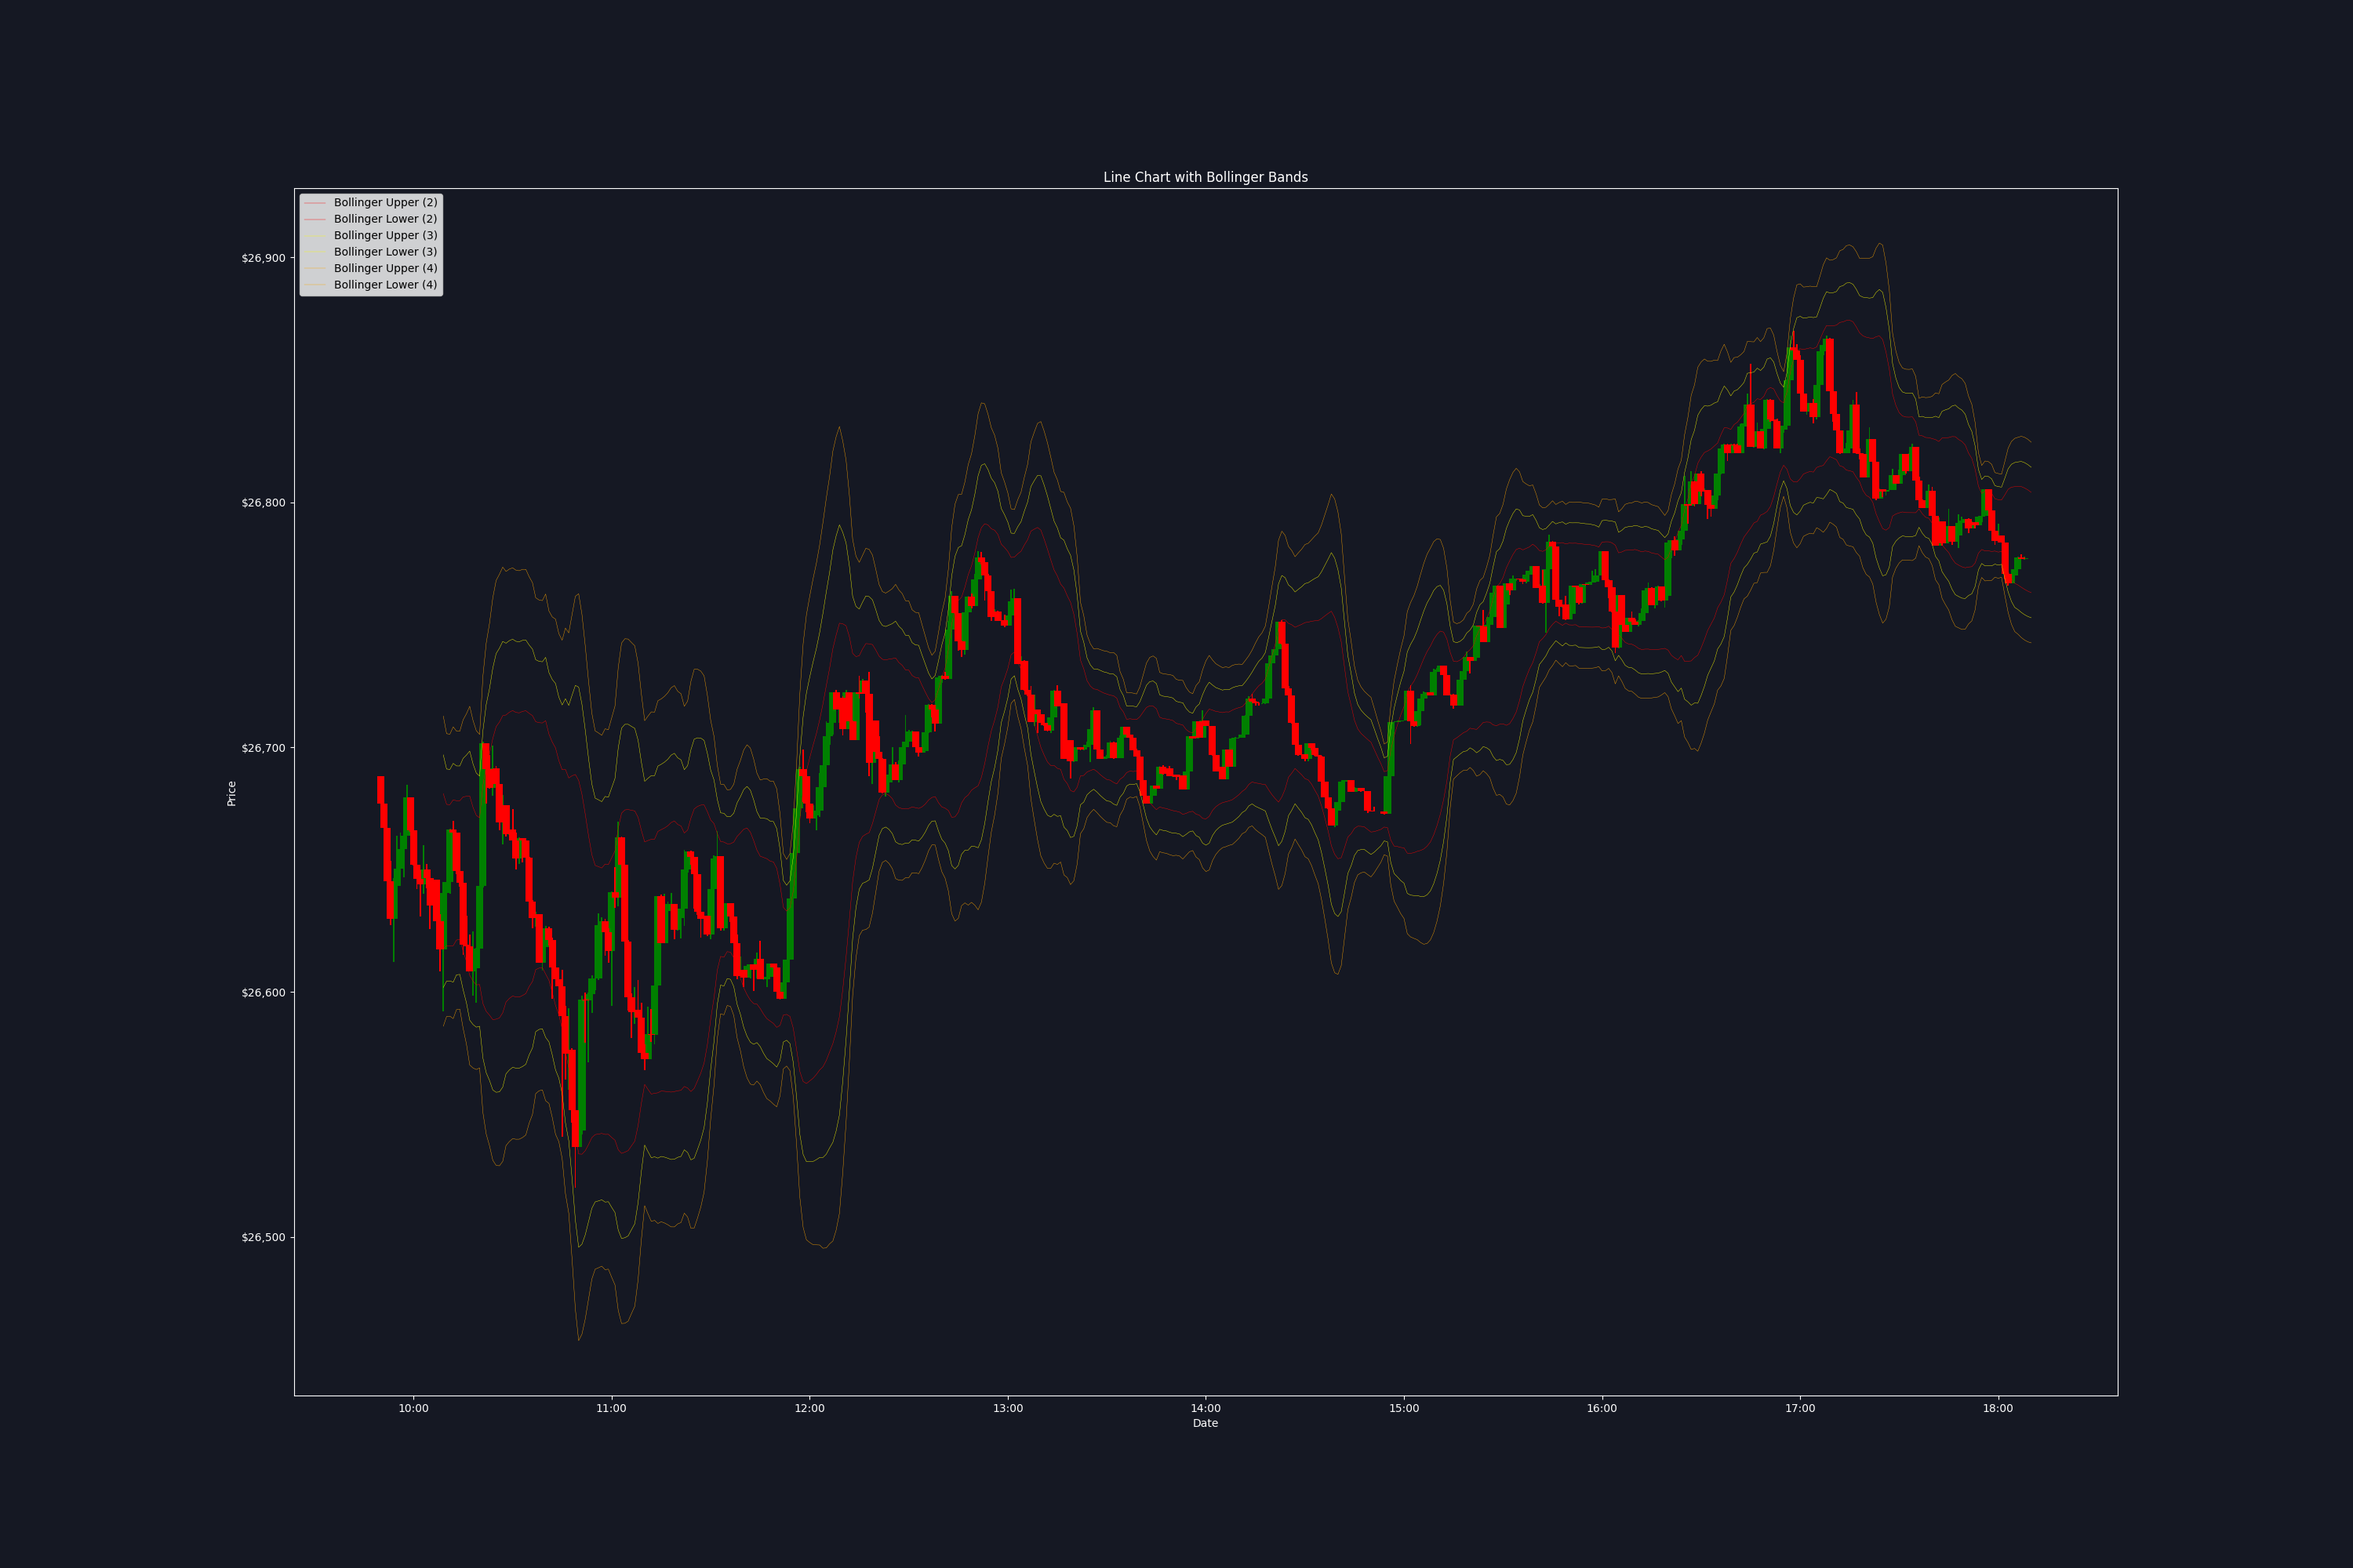
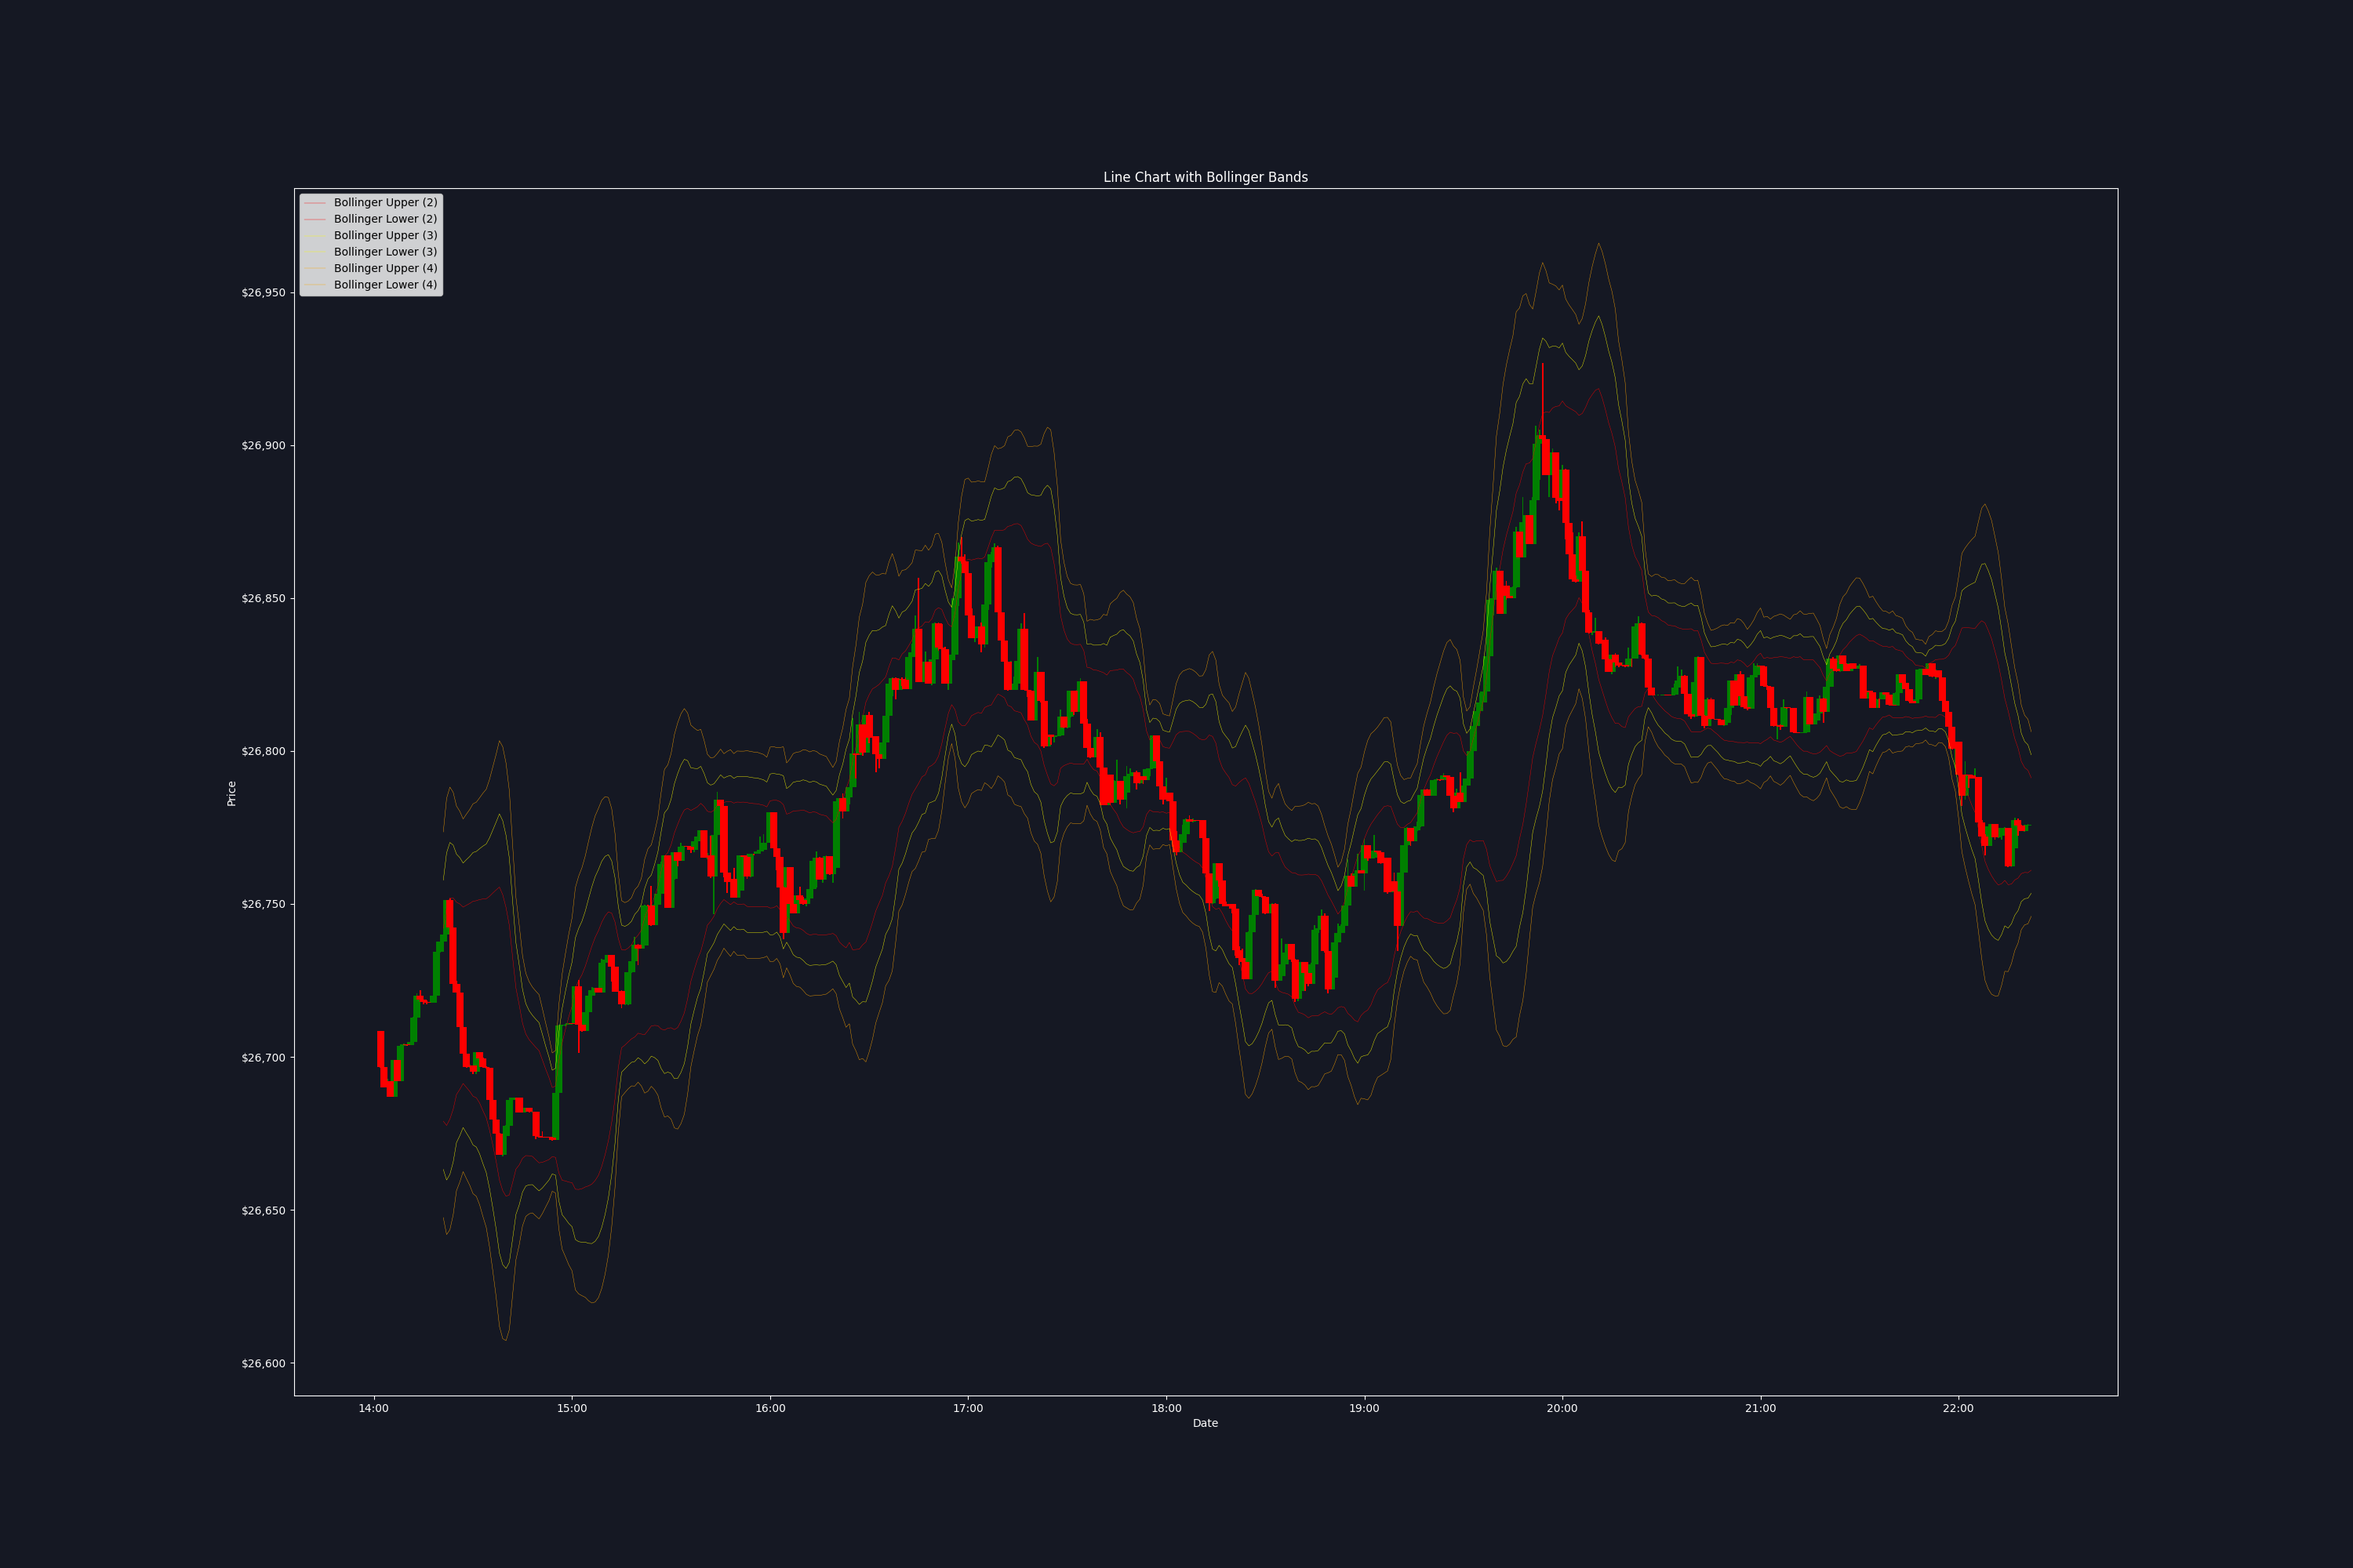
main_test; subplots; gridspec; rsi and stoch live

Changed region(s): [[0.155, 0.279, 0.837, 0.744], [0.713, 0.217, 0.868, 0.372], [0.837, 0.496, 0.868, 0.558]]

diff --git a/plot.py b/plot.py
@@ -1,12 +1,12 @@
 import matplotlib.pyplot as plt
 import pandas as pd
-from matplotlib.dates import date2num, DateFormatter
 from matplotlib.ticker import FuncFormatter
-from datetime import datetime, timedelta
 import os
-from bitget.bitget import BitGet
-import asyncio
+
 from bot.utils import calc_bollinger_bands, calc_RSI, calc_stochastic
+from matplotlib import style
+from matplotlib.dates import DateFormatter
+from matplotlib.gridspec import GridSpec
 
 
 def format_to_dollars(x, pos):
@@ -64,27 +64,30 @@ def plot_candlestick_with_bollinger(df, save_path=None):
     df["Date"] = df.index
     df.sort_values(by="Date", inplace=True)
 
-    # Convert Unix timestamp to datetime and assign to a new column
-    # df["Date"] = df["Date"].dt.tz_localize("UTC").dt.tz_convert("America/Los_Angeles")
-
     df["Date"] = (
         pd.to_datetime(df["Date"], unit="s")
         .dt.tz_localize("UTC")
         .dt.tz_convert("America/Los_Angeles")
     )
-    print("First timestamp:", df["Date"].iloc[0])
-    print("Last timestamp:", df["Date"].iloc[-1])
-
-    # Sort DataFrame by datetime
+    # print("First timestamp:", df["Date"].iloc[0])
+    # print("Last timestamp:", df["Date"].iloc[-1])
 
     # Setup the plot
-    fig, ax = plt.subplots()
+    # fig, ax = plt.subplots()
+    fig, (ax, ax_indicator) = plt.subplots(2, sharex=True, figsize=(30, 20))
 
-    # Candles
+    style.use("dark_background")
+    # Create grid layout
+    gs = GridSpec(3, 1)  # 3 rows, 1 column
 
-    # Setting width of candlestick elements
+    # Allocate grid space
+    ax = plt.subplot(gs[:2, 0])  # Takes up first two rows
+    ax_indicator = plt.subplot(gs[2, 0], sharex=ax)  # Takes up last row
+
+    # Candlestick Config
     width = 0.0015
     width2 = 0.0003
+
     # Identify 'up' and 'down' movements in price
     up = df[df["Close"] >= df["Open"]]
     down = df[df["Close"] < df["Open"]]
@@ -112,8 +115,6 @@ def plot_candlestick_with_bollinger(df, save_path=None):
         bottom=down["Close"],
         color=col2,
     )
-
-    # ax.plot(df["Date"], df["Close"], color="k", label="Close Price")
 
     # Bollinger Bands
     ax.plot(
@@ -164,6 +165,33 @@ def plot_candlestick_with_bollinger(df, save_path=None):
         linewidth=0.3,
     )
 
+    # Calculate RSI
+    delta = df["Close"].diff()
+    gain = (delta.where(delta > 0, 0)).rolling(window=14).mean()
+    loss = (-delta.where(delta < 0, 0)).rolling(window=14).mean()
+    rs = gain / loss
+    rsi = 100 - (100 / (1 + rs))
+
+    ax_indicator.plot(df["Date"], rsi, label="RSI", color="b")
+
+    # Calculate Stochastic Oscillator and Plot on ax_indicator
+    low_min = df["Low"].rolling(window=14).min()
+    high_max = df["High"].rolling(window=14).max()
+    k = 100 * ((df["Close"] - low_min) / (high_max - low_min))
+    ax_indicator.plot(df["Date"], k, label="Stochastic %K", color="g")
+
+    # Common indicators for ax_indicator
+    ax_indicator.axhline(80, linestyle="--", linewidth=1, color="grey")
+    ax_indicator.axhline(20, linestyle="--", linewidth=1, color="grey")
+    ax_indicator.set_title("RSI and Stochastic Indicators")
+    ax_indicator.set_ylim([0, 100])
+    ax_indicator.legend(loc="upper left")
+
+    # Hide x-tick labels on the bottom subplot
+    ax_indicator.tick_params(
+        axis="x", which="both", bottom=False, top=False, labelbottom=False
+    )
+
     # Add labels and title
     ax.set_xlabel("Date")
     ax.set_ylabel("Price")
@@ -186,11 +214,6 @@ def plot_candlestick_with_bollinger(df, save_path=None):
 
     date_format = DateFormatter("%H:%M", tz=df["Date"].dt.tz)
     ax.xaxis.set_major_formatter(date_format)
-
-    # Formatting and legend
-    # date_format = DateFormatter("%d-%b")
-    # date_format = DateFormatter("%H:%M")
-    # ax.xaxis.set_major_formatter(date_format)
 
     formatter = FuncFormatter(format_to_dollars)
     ax.yaxis.set_major_formatter(formatter)

diff --git a/main_test.py b/main_test.py
@@ -1,0 +1,27 @@
+import asyncio
+from bitget.bitget import BitGet
+from plot import (
+    parse_snapshot_to_dataframe,
+    plot_candlestick_with_bollinger,
+)  # Import the utility functions
+
+
+async def main():
+    # Initialize BitGet and connect
+    bitget = BitGet()
+    await bitget.connect()  # 'await' is valid because we're inside an async function
+
+    # Get the snapshot and parse it into a DataFrame
+    snapshot = bitget.get_candle_data()
+    df = parse_snapshot_to_dataframe(snapshot)
+
+    # Generate the plot and save it as a PNG file
+    plot_candlestick_with_bollinger(df)
+
+    # Send the PNG file in the Discord channel
+    # (you can add your Discord bot sending logic here)
+
+
+# Run the event loop
+if __name__ == "__main__":
+    asyncio.run(main())

diff --git a/bitget/bitget.py b/bitget/bitget.py
@@ -112,7 +112,6 @@ class BitGet:
                             )
 
                     elif action_type == "update":
-                        print("Received update:")
                         for candle in parsed_message["data"]:
                             print(f"Timestamp: {candle[0]}, Open: {candle[1]}, ...")
 
